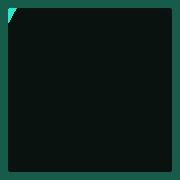
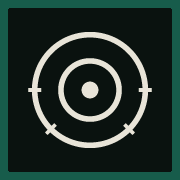
Mot 8 - application PWA : icone la Cible aux quatre coupes (192, 512, apple-touch), manifeste standalone console, install.html + commande /install, precache sw mot8

diff --git a/install.html b/install.html
@@ -1,0 +1,87 @@
+<!DOCTYPE html>
+<html lang="fr" data-pe-build="2026.10.26-mot8">
+<head>
+  <meta charset="UTF-8">
+  <meta name="viewport" content="width=device-width, initial-scale=1">
+  <title>Installer — Les Protocoles Éternels</title>
+  <meta name="robots" content="noindex, nofollow">
+  <link rel="icon" href="/favicon.svg">
+  <link rel="manifest" href="/manifest.webmanifest">
+  <link rel="apple-touch-icon" href="/icons/apple-touch-icon.png">
+  <link rel="preconnect" href="https://fonts.googleapis.com">
+  <link rel="preconnect" href="https://fonts.gstatic.com" crossorigin>
+  <link rel="stylesheet" href="https://fonts.googleapis.com/css2?family=Rajdhani:wght@400;600;700&family=Exo+2:ital,wght@0,400;0,700;1,400&display=swap">
+  <link rel="stylesheet" href="assets/css/tokens.css">
+  <link rel="stylesheet" href="assets/css/main.css">
+  <style>
+/* Installer : une seule carte centrée, trois visages selon l'appareil */
+.authcard{max-width:460px;margin:0 auto}
+.inst-ios{margin:10px 0 4px;padding-left:22px;line-height:1.9}
+.inst-ios li{margin:4px 0}
+  </style>
+</head>
+<body>
+  <header class="nav">
+    <div class="nav-in">
+      <a class="brand-code" href="/" aria-label="Protocoles Éternels"><svg viewBox="0 0 136 42" width="136" height="42" role="img" aria-hidden="true" focusable="false"><defs><clipPath id="bcv"><path d="M5.5 4.5h117l5 5v19H5.5z"/></clipPath></defs><path d="M.5.5h125l10 10v31H.5z" fill="var(--panel2)" stroke="currentColor" stroke-opacity=".45"/><g fill="currentColor" clip-path="url(#bcv)"><rect x="6" y="5" width="3" height="23"/><rect x="10" y="5" width="1" height="23"/><rect x="12" y="5" width="2" height="23"/><rect x="15" y="5" width="1" height="23"/><rect x="17" y="5" width="1" height="23"/><rect x="19" y="5" width="3" height="23"/><rect x="23" y="5" width="1" height="23"/><rect x="25" y="5" width="2" height="23"/><rect x="28" y="5" width="3" height="23"/><rect x="32" y="5" width="1" height="23"/><rect x="34" y="5" width="1" height="23"/><rect x="36" y="5" width="2" height="23"/><rect x="39" y="5" width="1" height="23"/><rect x="41" y="5" width="3" height="23"/><rect x="45" y="5" width="2" height="23"/><rect x="48" y="5" width="1" height="23"/><rect x="50" y="5" width="3" height="23"/><rect x="54" y="5" width="1" height="23"/><rect x="56" y="5" width="1" height="23"/><rect x="58" y="5" width="2" height="23"/><rect x="61" y="5" width="3" height="23"/><rect x="65" y="5" width="1" height="23"/><rect x="67" y="5" width="2" height="23"/><rect x="70" y="5" width="1" height="23"/><rect x="72" y="5" width="1" height="23"/><rect x="74" y="5" width="3" height="23"/><rect x="78" y="5" width="1" height="23"/><rect x="80" y="5" width="2" height="23"/><rect x="83" y="5" width="1" height="23"/><rect x="85" y="5" width="3" height="23"/><rect x="89" y="5" width="1" height="23"/><rect x="91" y="5" width="1" height="23"/><rect x="93" y="5" width="2" height="23"/><rect x="96" y="5" width="3" height="23"/><rect x="100" y="5" width="1" height="23"/><rect x="102" y="5" width="2" height="23"/><rect x="105" y="5" width="1" height="23"/><rect x="107" y="5" width="3" height="23"/><rect x="111" y="5" width="1" height="23"/><rect x="113" y="5" width="2" height="23"/><rect x="116" y="5" width="3" height="23"/><rect x="120" y="5" width="1" height="23"/><rect x="122" y="5" width="2" height="23"/><rect x="125" y="5" width="1" height="23"/><rect x="127" y="5" width="1" height="23"/></g><path d="M5.5 4.5h117l5 5v19H5.5z" fill="none" stroke="currentColor" stroke-opacity=".35"/><text x="68" y="38.5" text-anchor="middle" font-family="Rajdhani,sans-serif" font-weight="700" font-size="5" letter-spacing="1" fill="currentColor" fill-opacity=".85">PROTOCOLES &#38;#201;TERNELS</text></svg></a>
+      <nav class="nav-links">
+          <a href="/console.html">Console</a>
+          <a href="/data.html">Data</a>
+          <a href="/joueur.html" class="pj"><span class="pe-star"></span> Zone joueurs</a>
+          <a href="/mj.html" class="mj"><span class="pe-star"></span> Zone MJ</a>
+        </nav>
+    </div>
+  </header>
+  <script src="assets/js/core.js"></script>
+    <script src="assets/js/theme.js"></script>
+
+  <main class="wrap">
+    <section class="hero rev">
+      <div class="glyphrow"><span class="pe-star lg"></span> ⬥ <span class="pe-star lg"></span></div>
+      <h1>Installer</h1>
+      <div class="tagline">L’application — icône sur l’écran, fenêtre propre, tout hors-ligne</div>
+      <p class="pitch">Un seul geste : le site devient un logiciel posé sur l’écran de l’appareil. Il s’ouvre sur la console et vit hors connexion.</p>
+    </section>
+
+    <section class="rev d1">
+      <div class="card authcard">
+        <span class="ico"><span class="pe-star lg"></span></span>
+
+        <div id="ip-chrome">
+          <h3 style="margin-top:0">Installer Les Protocoles Éternels</h3>
+          <p>Un geste, et le site vit en logiciel — icône sur l’écran, fenêtre propre, tout hors-ligne.</p>
+          <button class="btn primary" id="ip-btn" type="button" style="width:100%" disabled>En attente du navigateur…</button>
+          <p class="gmsg" id="ip-st">Chrome arme le prompt après un clic et trente secondes de présence — le bouton s’allume alors. S’il tarde : menu ⋮ du navigateur, puis « Installer l’application ».</p>
+        </div>
+
+        <div id="ip-ios" style="display:none">
+          <h3 style="margin-top:0">Protocoles Éternels</h3>
+          <p>Safari n’arme aucun bouton : le protocole manuel, trois gestes.</p>
+          <ol class="inst-ios">
+            <li>Toucher <b>Partager</b> — le carré barré d’une flèche</li>
+            <li>Faire défiler, toucher <b>« Sur l’écran d’accueil »</b></li>
+            <li>Toucher <b>Ajouter</b> — l’icône est posée, l’application vit</li>
+          </ol>
+          <p class="gmsg">L’icône posée ouvre l’application directement sur la console.</p>
+        </div>
+
+        <div id="ip-done" style="display:none">
+          <h3 style="margin-top:0">Le sanctuaire est déjà scellé</h3>
+          <p>L’application est installée sur cet appareil. Lancez-la depuis son icône — elle s’ouvre sur la console.</p>
+          <a class="btn ghost" href="/console.html">→ Ouvrir la console</a>
+        </div>
+      </div>
+
+      <div class="note-box" style="max-width:460px;margin:14px auto 0">
+        L’application vit par le precache du service worker : règles, fiches, bestiaire et consoles restent lisibles sans connexion. Chrome n’arme son geste qu’après un minimum d’engagement — la page attend, puis s’allume.
+      </div>
+    </section>
+  </main>
+
+  <footer class="foot">
+  <p style="margin:0"><strong>Les Protocoles Éternels</strong> — Usage privé.<span class="foot-motor">Moteur 2026.10.25-data1</span></p>
+  </footer>
+
+  <script src="assets/js/pages/install.js"></script>
+</body>
+</html>

diff --git a/assets/js/pages/console.js b/assets/js/pages/console.js
@@ -13,6 +13,9 @@ try{
 window.addEventListener('error',function(e){ERRS.push('E:'+(e.message||'?')+' @'+(e.filename||'')+':'+(e.lineno||0));if(ERRS.length>12){ERRS.shift();}});
 window.addEventListener('unhandledrejection',function(e){ERRS.push('P:'+String(e.reason).slice(0,180));if(ERRS.length>12){ERRS.shift();}});
 }catch(e){}
+/* ————— /install : prompt PWA armé par le navigateur ————— */
+var DPEVT=null;
+try{window.addEventListener('beforeinstallprompt',function(e){e.preventDefault();DPEVT=e;});}catch(e){}
 function hdr(){var h={'apikey':SBK,'Content-Type':'application/json'};if(SESS&&SESS.token){h['x-token']=SESS.token;}return h;}
 function authHdr(tk){return {'apikey':SBK,'Authorization':'Bearer '+tk,'Content-Type':'application/json'};}
 function api(url,opt){return fetch(url,opt);}
@@ -192,6 +195,7 @@ function showCmds(){
   '<b>/pseudo1+pseudo2 "texte"</b> — chuchotement à plusieurs joueurs<br>'+
   '<b>/oracle "question"</b> — l\'Oracle IA (voix de la Tombe)<br>'+
   '<b>/oracle-net "question"</b> — l\'Oracle IA (voix neutre)'+
+  '<br><b>/install</b> — sceller l\'application sur cet appareil'+
   (MJSIDE?'<br><b>/debug</b> — diagnostic du Maître de la Tombe (taper /debug help)':'')+
   '</div>';
  BOX.insertBefore(div,BOX.firstChild);
@@ -267,10 +271,29 @@ function sendOracle(question,style){
   setStatus('L\'Oracle est injoignable — vérifie ta connexion.','err');
  });
 }
+function installCmd(){
+ var standalone=false;
+ try{standalone=(window.matchMedia&&window.matchMedia('(display-mode: standalone)').matches)||(navigator.standalone===true);}catch(e){}
+ if(standalone){setStatus('L\'application est déjà scellée sur cet appareil.','ok');return;}
+ if(DPEVT){
+  var ev=DPEVT;DPEVT=null;
+  ev.prompt();
+  ev.userChoice.then(function(ch){
+   if(ch&&ch.outcome==='accepted'){setStatus('Application installée — elle s\'ouvre sur la console depuis son icône.','ok');}
+   else{setStatus('Le geste a été refusé — le site reste accessible depuis le navigateur.','');}
+  }).catch(function(){setStatus('Le navigateur a refermé la boîte d\'installation.','');});
+  return;
+ }
+ var ua=(navigator&&navigator.userAgent)||'';
+ var ios=/iPad|iPhone|iPod/.test(ua)||(/Macintosh/.test(ua)&&navigator.maxTouchPoints>1);
+ if(ios){setStatus('Protocole iOS : bouton Partager (le carré barré d\'une flèche), puis « Sur l\'écran d\'accueil », puis Ajouter.','');return;}
+ setStatus('Le navigateur n\'a pas encore armé le geste — un clic et trente secondes de présence sur le site, puis /install à nouveau (ou installe via install.html).','');
+}
 function sendMessage(){
  var inp=$('c-input'), txt=inp.value.trim();
  if(!txt){return;}
  if(/^\/help\s*$/.test(txt)){inp.value='';showCmds();return;}
+ if(/^\/install\s*$/.test(txt)){inp.value='';installCmd();return;}
  var dbg=/^\/debug(\s+(\S+))?\s*$/.exec(txt);
  if(dbg){
   if(!MJSIDE){setStatus('Commande réservée au Maître de la Tombe.','err');return;}

diff --git a/sw.js b/sw.js
@@ -1,10 +1,10 @@
 /* Les Protocoles Éternels — service worker : stratégie network-first avec repli hors ligne */
-var CACHE='pe-v2026-10-25-mot7';
+var CACHE='pe-v2026-10-26-mot8';
 var PRECACHE=[
- '/', '/index.html', '/regles.html', '/console.html', '/data.html', '/fiches.html', '/bestiaire.html', '/galaxie.html', '/joueur.html', '/connexion.html', '/mj.html', '/espace-mj/moteur.html', '/404.html',
+ '/', '/index.html', '/regles.html', '/console.html', '/data.html', '/fiches.html', '/bestiaire.html', '/galaxie.html', '/joueur.html', '/connexion.html', '/install.html', '/mj.html', '/espace-mj/moteur.html', '/404.html',
  '/assets/css/tokens.css', '/assets/css/main.css', '/assets/js/core.js', '/assets/js/theme.js', '/assets/js/vendor/supabase.js',
- '/assets/js/pages/fiches.js', '/assets/js/pages/bestiaire.js', '/assets/js/pages/galaxie.js', '/assets/js/pages/joueur.js', '/assets/js/pages/connexion.js', '/assets/js/pages/console.js', '/assets/js/pages/data.js', '/assets/js/pages/mj.js', '/assets/js/pages/mj-carte.js', '/assets/js/pages/mj-bestiaire.js', '/assets/js/pages/des.js', '/assets/js/pages/auth.js', '/assets/js/pages/images.js', '/assets/js/pages/mj-comptes.js', '/assets/js/pages/moteur.jsx', '/assets/js/moteur-planetaire.js', '/assets/js/moteur-planetaire-rotation.js', '/assets/js/pe-equipement.js',
- '/favicon.svg', '/icons/icon-192.png', '/icons/apple-touch-icon.png', '/manifest.webmanifest'
+ '/assets/js/pages/fiches.js', '/assets/js/pages/bestiaire.js', '/assets/js/pages/galaxie.js', '/assets/js/pages/joueur.js', '/assets/js/pages/connexion.js', '/assets/js/pages/console.js', '/assets/js/pages/install.js', '/assets/js/pages/data.js', '/assets/js/pages/mj.js', '/assets/js/pages/mj-carte.js', '/assets/js/pages/mj-bestiaire.js', '/assets/js/pages/des.js', '/assets/js/pages/auth.js', '/assets/js/pages/images.js', '/assets/js/pages/mj-comptes.js', '/assets/js/pages/moteur.jsx', '/assets/js/moteur-planetaire.js', '/assets/js/moteur-planetaire-rotation.js', '/assets/js/pe-equipement.js',
+ '/favicon.svg', '/icons/icon-192.png', '/icons/icon-512.png', '/icons/apple-touch-icon.png', '/manifest.webmanifest'
 ];
 self.addEventListener('install',function(e){e.waitUntil(caches.open(CACHE).then(function(c){return c.addAll(PRECACHE);}).then(function(){return self.skipWaiting();}));});
 self.addEventListener('activate',function(e){e.waitUntil(caches.keys().then(function(ks){return Promise.all(ks.map(function(k){return k===CACHE?null:caches.delete(k);}));}).then(function(){return self.clients.claim();}));});

diff --git a/assets/js/pages/install.js b/assets/js/pages/install.js
@@ -1,0 +1,56 @@
+/* PE_BUILD 2026.10.26-mot8 — install.html : les trois visages de la porte de distribution */
+(function(){
+'use strict';
+function $(id){return document.getElementById(id);}
+function face(k){
+ ['chrome','ios','done'].forEach(function(id){
+  var el=$('ip-'+id);
+  if(el){el.style.display=(id===k)?'':'none';}
+ });
+}
+function standalone(){
+ try{
+  return (window.matchMedia&&window.matchMedia('(display-mode: standalone)').matches)||(navigator.standalone===true);
+ }catch(e){return false;}
+}
+function iosSafari(){
+ var ua=(navigator&&navigator.userAgent)||'';
+ return /iPad|iPhone|iPod/.test(ua)||(/Macintosh/.test(ua)&&navigator.maxTouchPoints>1);
+}
+function setWait(){
+ var b=$('ip-btn'),s=$('ip-st');
+ if(!b){return;}
+ b.textContent='En attente du navigateur…';
+ b.className='btn primary';
+ b.disabled=true;
+ if(s){s.textContent='Chrome arme le prompt après un clic et trente secondes de présence — le bouton s\u2019allume alors. S\u2019il tarde : menu ⋮ du navigateur, puis « Installer l\u2019application ».';}
+}
+function setReady(){
+ var b=$('ip-btn'),s=$('ip-st');
+ if(!b){return;}
+ b.textContent='→ Installer l\u2019application';
+ b.className='btn primary';
+ b.disabled=false;
+ if(s){s.textContent='Le clic ouvrira la boîte d\u2019installation du navigateur — le geste du joueur reste obligatoire.';}
+}
+var DPEVT=null;
+window.addEventListener('beforeinstallprompt',function(e){
+ e.preventDefault();
+ DPEVT=e;
+ setReady();
+});
+window.addEventListener('appinstalled',function(){face('done');});
+if(standalone()){face('done');return;}
+if(iosSafari()){face('ios');return;}
+face('chrome');
+setWait();
+$('ip-btn').addEventListener('click',function(){
+ if(!DPEVT){setWait();return;}
+ var ev=DPEVT;DPEVT=null;
+ ev.prompt();
+ ev.userChoice.then(function(ch){
+  if(ch&&ch.outcome==='accepted'){face('done');}
+  else{setWait();}
+ }).catch(function(){setWait();});
+});
+})();
